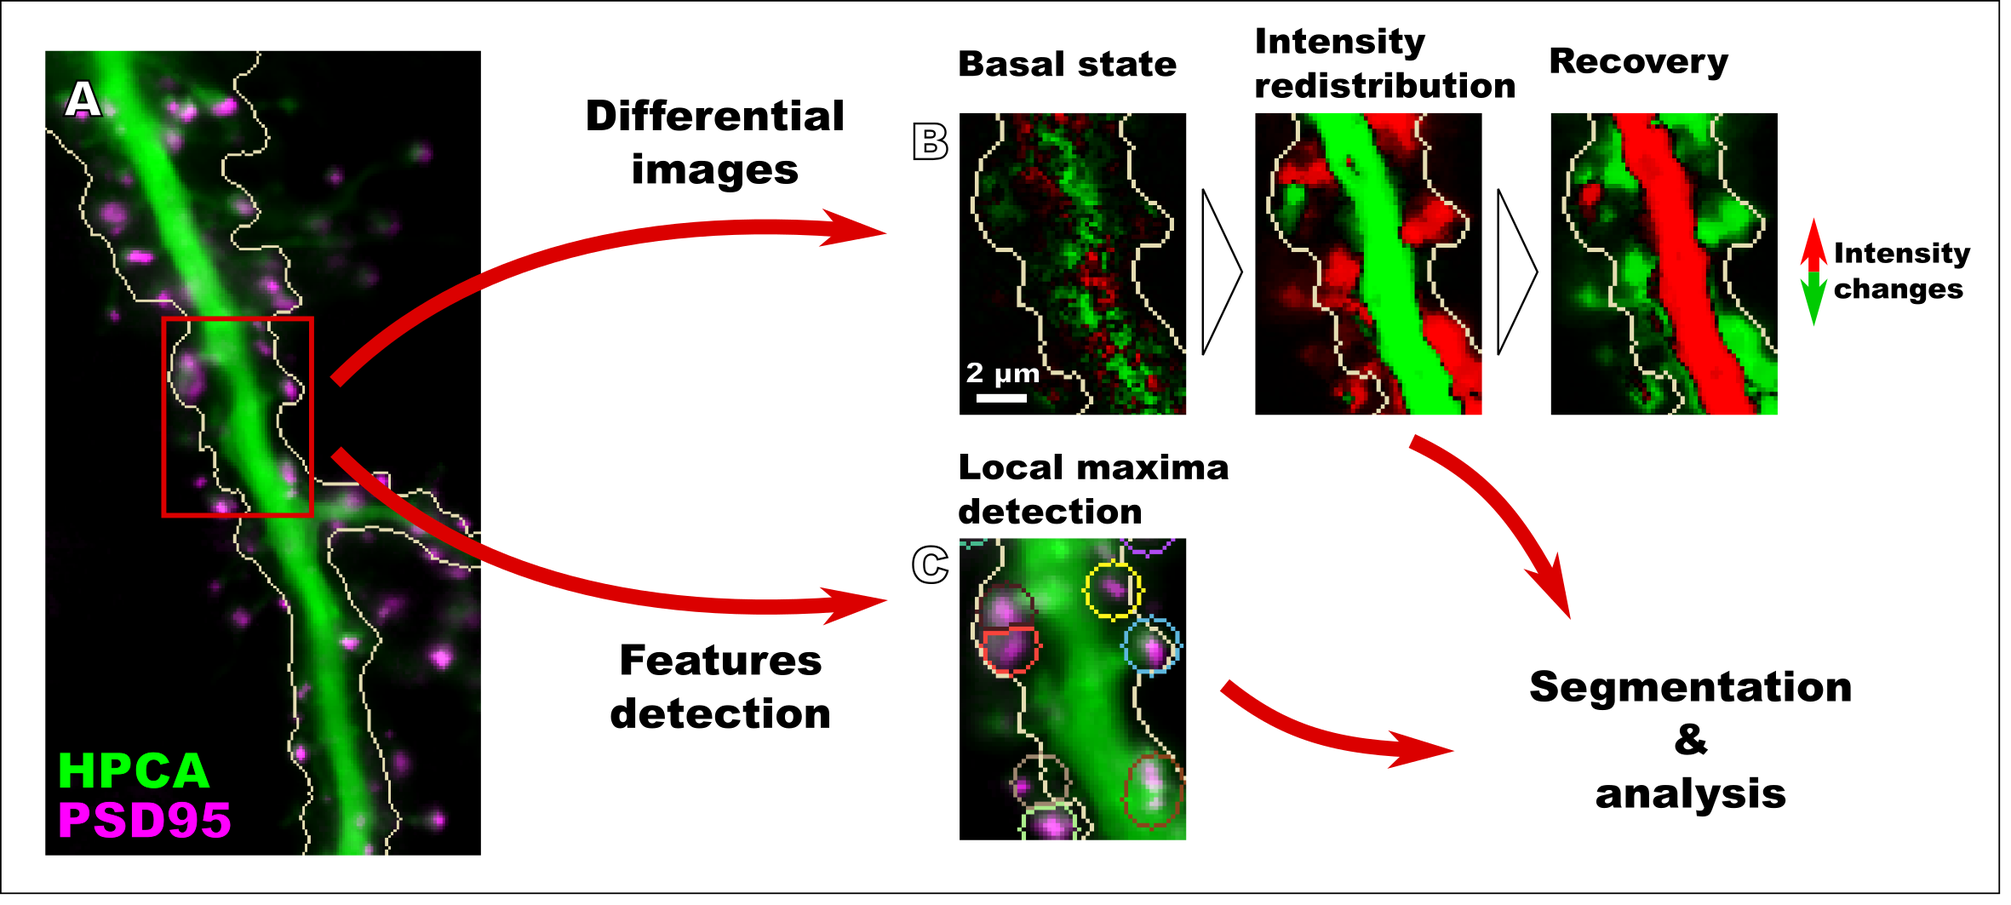
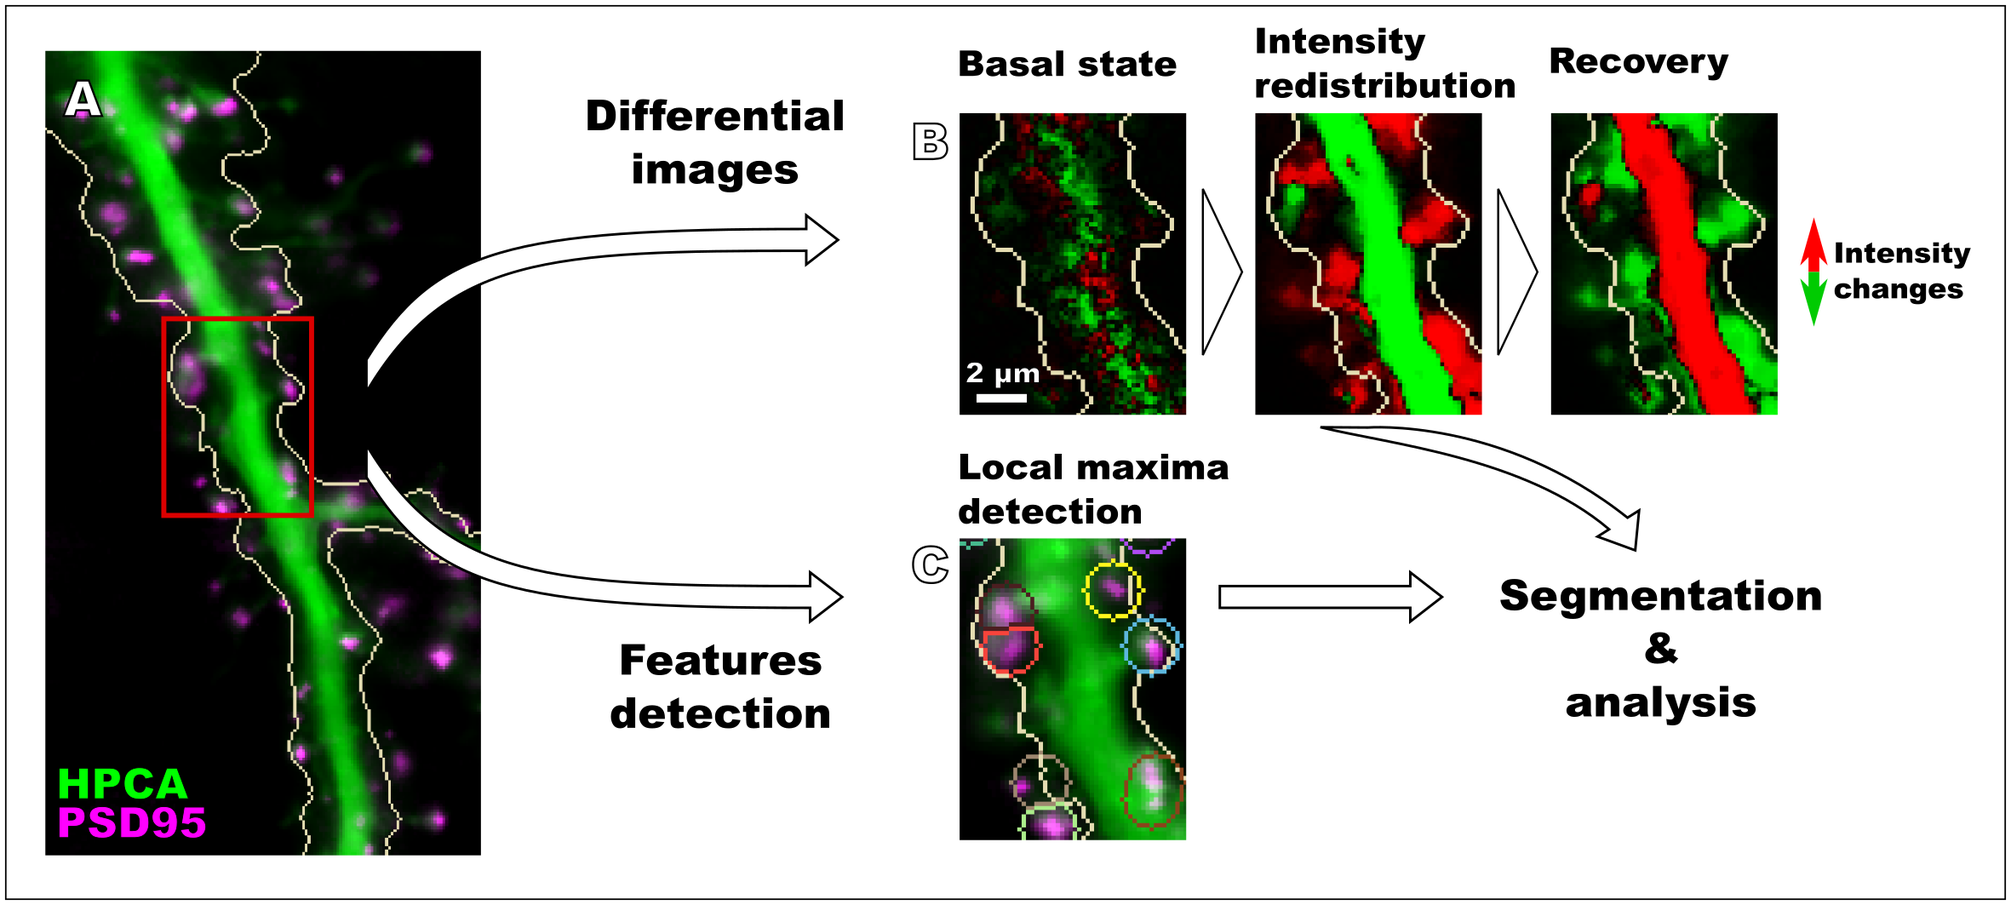
JOSS draft v2

diff --git a/paper/paper.md b/paper/paper.md
@@ -33,40 +33,45 @@ bibliography: paper.bib
 
 # Summary
 
-In today's high-throughput-focused research environment, simple and reliable exploratory analysis of experimental data remains important. We have developed a toolset for the rapid analysis of live-cell fluorescence imaging data, with a specific focus on visualising and detecting dynamic intracellular processes. This toolset's core functionality includes two main areas. First, it offers simple tools for detecting fluorescence redistribution using derivative images to visualise and quantify the fluorescence intensity changes over time series. Second, it includes an end-to-end pipeline for Förster Resonance Energy Transfer (FRET) experiments, providing a set of functions for calibration and estimation using two well-defined ratiometric methods. Combined with basic functions for segmentation, plotting, and data export, this provides a complete working environment for analysing live-cell imaging experiments. The implemented methods are simple and robust, making them broadly applicable across various biological domains, including neuroscience, biophysics, and cytology. The main tool, `domb-napari`, is developed as a plugin for napari, an open-source multidimensional image viewer, ensuring accessibility for biologists without coding expertise. Additionally, the functions specifically for FRET calibration and estimation are available as a standalone Python module, which can be used separately for greater flexibility.
+In today's high-throughput-focused research environment, simple and reliable exploratory analysis of experimental data remains important. We have developed a toolset for the rapid analysis of live-cell fluorescence imaging data, with a specific focus on visualising and detecting dynamic intracellular processes. This toolset's core functionality includes two main areas. First, it offers simple tools for detecting fluorescence intensity redistribution using derivative images to visualise and quantify the fluorescence intensity changes over time series. Second, it includes an end-to-end pipeline for Förster Resonance Energy Transfer (FRET) experiments, providing a set of functions for calibration and estimation using two well-defined ratiometric methods. Combined with basic functions for segmentation, plotting, and data export, this provides a complete working environment for analysing results of live-cell imaging experiments. The implemented methods are simple and robust, making them broadly applicable across various biological fields. The `domb-napari` is developed as a plugin for napari, an open-source multidimensional image viewer, ensuring accessibility for biologists without coding skills. Additionally, the functions specifically developed for FRET calibration and estimation are available as a standalone Python module to secure better flexibility of the toolset.
 
 
 # Statement of need
 
-Napari, the open-source multidimensional viewer, has very limited built-in functionality and is developed through community-created plugins [@Chiu2022]. However, there is a very limited set of plugins for basic analysis of live-imaging data, which are often poorly documented [@Haase2021; @Nauroth2023; @Soltwedel2024; @Gradel2025]. Our main aim was to bridge the gap between highly specialised solutions and just a set of basic functions (filtering, morphology operations, plotting, etc.), create a general-purpose toolset for fast analysis of fluorescence live-cell imaging data, from the primary detection of regions of interest up to plotting and exporting data in a tidy format. The core functionality of our plugin relies on a straightforward pixel-wise derivative approach, allowing rapid inspection and detection of changes or redistribution in fluorescence intensity. This method is broadly applicable across various experimental designs. Possible areas of application include:
+Napari is an open-source, multidimensional viewer whose functionality is expanded through community-created plugins [@Chiu2022]. Our main aim was to bridge the gap between highly specialised solutions and just a set of basic functions (filtering, morphology operations, plotting, etc.), create a general-purpose toolset for fast analysis of fluorescence live-cell imaging data, from the primary detection of regions of interest up to plotting and exporting data in a tidy format. The core functionality of our toolset relies on a straightforward pixel-wise derivative approach, allowing rapid inspection and detection of changes or redistribution in fluorescence intensity. This method is broadly applicable across various experimental designs. Possible areas of application include:
 
 - __Fluorescence probe signal detection:__ Calcium imaging, voltage-sensing probes imaging, pH-sensing probes imaging, etc. [@Taylor2011; @Reese2015].
 - __Tracking and redistribution detection:__ Detection of membrane protein complexes, intracellular trafficking detection, endocytosis and exocytosis events detection [@McVicker2016; @Scheefhals2019; @Mendoza2024].
 
-This primary feature is integrated with additional functionality for detecting and estimating Förster resonance energy transfer (FRET). FRET is a non-radiative phenomenon in which energy is transferred from one fluorophore (donor) to another (acceptor) over a distance of 1–10 nm. This energy transfer can be interpreted as a protein–protein interaction (if the fluorophores are attached to different proteins) or as a conformational change (if the fluorophores are on different parts of the same protein). This makes FRET a valuable tool for studying molecular processes in living cells without requiring super-resolution microscopy. There are many methods for FRET quantification. Some frequently used approaches belong to bulk measurement techniques such as ratiometric FRET, fluorescence lifetime imaging FRET, and photobleaching FRET. Ratiometric FRET, or intensity-based FRET estimation, is a widely used and accessible technique. It primarily relies on measuring the sensitised emission ($F_{c}$), which is the acceptor's fluorescence resulting from energy transfer from the donor [@Shrestha2015]. Despite this, ratiometric FRET lacks open-source, user-friendly tools for automated data processing and visualisation. Existing pipelines often rely on MATLAB [@Nagy2016; @Muller2025], which is extensible but proprietary software, or ImageJ [@Feige2005; @Hachet2006; @Rebenku2023], which is open-source but Java-based software, making it difficult to modify or create analysis pipelines. Although ImageJ supports Python integration through Jython, this is limited to Python 2. Existing Python-based tools for FRET analysis, often distributed as packages or scripts [@Kamino2023], present a significant barrier to entry for experimental biologists. As of early 2026, only one solution for FRET analysis is currently available within the napari ecosystem [@Leblanc2025; @Dupont2025]. Rather than duplicating methodologies, our work focuses on implementing well-described and widely adopted FRET estimation techniques: E-FRET [@Zal2004; @Chen2006] and 3^3^-FRET [@Erickson2001; @Butz2016].
+This primary feature is integrated with additional functionality for detecting and estimating Förster resonance energy transfer (FRET), a non-radiative phenomenon in which energy is transferred from one fluorophore (donor) to another (acceptor) over a distance of 1–10 nm. This energy transfer can be interpreted as a protein–protein interaction (if the fluorophores are attached to different proteins) or as a conformational change (if the fluorophores are on different parts of the same protein). This makes FRET a valuable tool for studying molecular processes in living cells without employing super-resolution microscopy. There are many methods for FRET quantification, among which ratiometric FRET, or intensity-based FRET estimation, is a widely used and accessible technique. It primarily relies on measuring the sensitised emission ($F_{c}$), which is the acceptor's fluorescence resulting from energy transfer from the donor [@Shrestha2015]. Rather than reinventing methodologies, our work focuses on implementing well-described and widely adopted FRET estimation techniques: E-FRET [@Zal2004; @Chen2006] and 3^3^-FRET [@Erickson2001; @Butz2016].
+
+
+# State of the field
+
+Currently, over 500 plugins are available for napari; however, there is a notable lack of plugins for basic analysis of live-cell imaging data that would not be specific to a particular acquisition method or experimental design. Furthermore, these solutions are often poorly documented [@Haase2021; @Nauroth2023; @Soltwedel2024; @Gradel2025]. On the other hand, the ratiometric FRET approaches lack open-source, user-friendly tools for automated data processing and visualisation. Existing pipelines often rely on MATLAB [@Nagy2016; @Muller2025], which is extensible but proprietary software, or ImageJ [@Feige2005; @Hachet2006; @Rebenku2023], which is open-source but Java-based software, making it difficult to modify or create analysis pipelines. Although ImageJ supports Python integration through Jython, this is limited to Python 2. Existing Python-based tools for FRET analysis, often distributed as packages or scripts [@Kamino2023], present a significant barrier to entry for experimental biologists. And as of early 2026, only one solution for FRET analysis is currently available within the napari ecosystem [@Leblanc2025; @Dupont2025].
+
 
 # Software design
-## Fluorescence redistribution analysis toolset
+## Plugin functions overview
+The `domb-napari` plugin offers a full workflow for the analysis of spectral time-series imaging data. It allows researchers to benefit from interactive data analysis capabilities of the napari, while also enabling the export of results as tidy CSV data frames for further downstream analysis. Performance for fast, repetitive time-series analysis is enhanced by Numba's Just-In-Time (JIT) compilation for optimised array operations [@Lam2015]. The general toolset of the plugin, built upon the `dipy` [@Garyfallidis2014], `scipy`, and `scikit-image` libraries, includes:
 
-
-The key element of the `domb-napari` plugin is the "red-green" images ($I_{RG}$), which are named according to a lookup table in which red indicates positive changes and green represents negative changes. This image is a pixel-by-pixel difference between the averaged intensity of a right (later in time, $\bar{I}_{right}$) and a left (earlier in time, $\bar{I}_{left}$) time windows.
-
-Users can adjust the detection sensitivity to specific event kinetics by changing three parameters: the sizes of the averaging windows (frame intervals $[r_{0}:r]$ and $[l_{0}:l]$) and the frame shift ($s$) between the windows. Fast events are best detected using short, or single-frame, windows with no spacer, which effectively turns the estimation into a temporal derivative; a long shift and larger window sizes are suitable for detecting slow transient changes [^1]:
-
-[^1]: In this context, the terms "fast" and "slow" refer to the relationship between the speed of the biological process and the speed of data acquisition, rather than the actual speed of the process itself.
-
-$$I_{RG} = \bar{I}_{right} - \bar{I}_{left}  = \frac{1}{r - r_0}\sum_{t=r_0+s}^{r+s} I_{t} - \frac{1}{l - l_0}\sum_{t=l_0}^{l} I_{t}$$
-
-This approach has been previously implemented and successfully applied in our laboratory's research [@Dovgan2010; @Osypenko2019]. The plugin's additional functionality, which leverages the `scipy` and `scikit-image`libraries, includes:
-
-- __Data Preprocessing:__ Simple multichannel time-series preprocessing, including background correction and filtering.
+- __Data Preprocessing:__ Simple spectral time-series preprocessing, including background correction, filtering, and spectral channels registration.
 - __Feature Detection:__ Intensity-based segmentation and local maxima detection methods.
 - __Visualisation:__ Plotting widgets for generating intensity profiles of regions of interest (ROIs) across the time series.
 - __Data Export:__ Exporting ROI intensity values as tidy CSV data frames.
 
-By combining all these steps on multichannel data (Fig. 1A), the plugin enables simultaneous analysis of the dynamics of the target of interest using "red-green" images (Fig. 1B). This analysis can be performed in combination with features detected on optional reference channels (Fig. 1C). The resulting output may serve as the initial input for subsequent, more specialised analysis workflows. Furthermore, the use of Numba's Just-In-Time (JIT) compilation optimises array operations, leading to improved performance in fast, repetitive time-series analysis [@Lam2015].
 
-![Fig. 1. Rapid analysis of the fluorescence redistribution in the live-cell imaging data. Adapted from [@Olifirov2025]](fig1.png)
+## Fluorescence redistribution analysis toolset
+
+One of the key elements of the plugin is the "red-green" images ($I_{RG}$). It is named according to a lookup table in which red indicates positive and green indicates negative changes in the fluorescence. Thus, the "red-green" image represents a pixel-by-pixel visualisation of the difference between the intensity of a right (later in time, $\bar{I}_{right}$) and a left (earlier in time, $\bar{I}_{left}$) time windows. Users can adjust the detection sensitivity to specific event kinetics by changing three parameters: the number of frames averaged for the right and left windows (frame intervals $[r_{0}:r]$ and $[l_{0}:l]$) and the frame shift ($s$) between the windows. Fast events are best detected using short, or single-frame, with no spacer, which effectively turns the estimation into a temporal derivative; a long shift and a larger number of averaged frames  are suitable for detecting slow transient changes [^1]:
+
+[^1]: In this context, the terms "fast" and "slow" refer to the relationship between the rate of the biological process and the rate of data acquisition, rather than the actual rate of the process itself.
+
+$$I_{RG} = \bar{I}_{right} - \bar{I}_{left}  = \frac{1}{r - r_0}\sum_{t=r_0+s}^{r+s} I_{t} - \frac{1}{l - l_0}\sum_{t=l_0}^{l} I_{t}$$
+
+This approach has been previously implemented and successfully applied in our laboratory's research [@Dovgan2010; @Osypenko2019]. By combining all these steps on multichannel data (Fig. 1A), the plugin enables simultaneous analysis of the dynamics of the target of interest using "red-green" images (Fig. 1B). This analysis can be performed in combination with features detected in optional reference channels (Fig. 1C). The resulting output may serve as the initial input for subsequent, more specialised analysis workflows.
+
+![Fig. 1. Rapid analysis of the protein (HPCA) redistribution in the dendritic tree of cultured hippocampal neuron from/to postsynaptic densities labelled by PSD95 in the live-cell imaging data. Adapted from [@Olifirov2025]](fig1.png)
 
 
 ## Quantitative FRET analysis with `e_fret` module
@@ -75,7 +80,7 @@ The raw signal measured in the acceptor's channel under donor excitation ($I_{DA
 
 $$F_{c} = I_{DA} - a I_{AA} - d I_{DD}$$
 
-The `e_fret` module offers a set of methods for estimating coefficients, based on both donor-only and acceptor-only calibration samples imaging. Estimation of FRET using the absolute value of $F_{C}$ is strongly dependent on the specific imaging setup and FRET pair characteristics. To perform a comparison of results across different studies, various methods for estimating _relative_ FRET values have been developed. Our module offers two primary techniques:
+The `e_fret` module offers a set of methods for estimating coefficients, based on both donor-only and acceptor-only sample calibration imaging (Fig. 2A). Estimation of FRET using the absolute value of $F_{C}$ is strongly dependent on the specific imaging setup and FRET pair characteristics. To perform a comparison of results across different studies, various methods for estimating _relative_ FRET values have been developed. Our module offers two primary techniques:
 
 - __FRET efficiency__ ($E_{D}$) estimation: This is achieved using the E-FRET approach, which normalises the FRET signal to the total donor intensity ($I_{D}^{tot}$):
 
@@ -85,29 +90,31 @@ $$E_{D} = \frac{F_{c}}{I_{D}^{tot}} = \frac{F_c / G}{F_c / G + I_{DD}}$$
 
 $$E_{A} = \frac{F_{c}}{I_{A}^{tot}} = \frac{\Xi F_c}{aI_{AA}}$$
 
-Precise calculation of the $I_{D}^{tot}$ and $I_{A}^{tot}$ values from the spectral imaging data also requires estimation of method-dependent proportionality coefficient, the $G$ factor for $E_{D}$ estimation and excitation ratio $\Xi$ for $E_{A}$ estimation [^2].
+Precise calculation of the $I_{D}^{tot}$ and $I_{A}^{tot}$ values from the spectral imaging data also requires estimation of method-dependent proportionality coefficient, the $G$ factor for $E_{D}$ (Fig. 2C) estimation and excitation ratio $\Xi$ for $E_{A}$ estimation [^2].
 
 [^2]: For detailed, extended definitions and calculation methods of coefficients, see the corresponding papers on E-FRET [@Zal2004; @Chen2006] and 3^3^-FRET [@Erickson2001; @Butz2016].
 
-Our package offers two methods for estimating the $G$ factor, both relying on imaging calibration samples. The original approach, developed by Zal & Gascoigne, is based on the relationship between sensitised emission depletion ($\Delta F_{c}$) and donor dequenching ($I_{DD}$) following acceptor photodestruction [@Zal2004]. This method uses calibration samples containing a linked donor-acceptor tandem construct. The initial image acquisition shows high FRET values (indicated by lower donor intensity). Subsequent acquisition of the same field of view, performed after partial acceptor bleaching, results in lower FRET values ($F_{c}^{post}$) and higher donor intensity ($I_{DD}^{post}$):
+The `e_fret` module offers two methods for estimating the $G$ factor, both of which rely on imaging calibration samples. The original approach, developed by Zal & Gascoigne, is based on the relationship between sensitised emission depletion ($\Delta F_{c}$) and donor dequenching ($I_{DD}$) following acceptor photodestruction [@Zal2004] (Fig. 2B). This method uses calibration samples containing a linked donor-acceptor tandem construct. The initial image acquisition shows high FRET values (indicated by lower donor intensity). Subsequent acquisition of the same field of view, performed after partial acceptor bleaching, results in lower FRET values ($F_{c}^{post}$) and higher donor intensity ($I_{DD}^{post}$):
 
-$$G = \frac{\Delta F_{c}}{\Delta I_{DD}} = \frac{F_{c} - F_{c}^{post}}{I_{DD}^{post} - I_{DD}}$$  
+$$G = \frac{\Delta F_{c}}{\Delta I_{DD}} = \frac{F_{c} - F_{c}^{post}}{I_{DD}^{post} - I_{DD}}$$
 
-Chen et al. proposed an alternative method for estimating the $G$ factor based on comparing FRET values from two calibration donor-acceptor tandems [@Chen2006]. These tandems are characterised by distinct distances between the FRET pair components, resulting in different FRET efficiencies. By relating the sample parameters—specifically the corrected FRET signals ($F_c$), donor intensities in the absence of acceptor ($I_{DD}$), and acceptor intensities in the absence of donor ($I_{AA}$) – for the tandem with higher ($F_{c}^{high}$, $I_{DD}^{high}$, and $I_{AA}^{high}$) and lower ($F_{c}^{low}$, $I_{DD}^{low}$, and $I_{AA}^{low}$) FRET values, it is possible to accurately estimate the $G$ factor for a specific FRET pair:
+![Fig. 2. Example of the FRET experiment design for $E_{D}$ estimation and corresponding classes of the `e_fret` module](fig2.png)
 
-$$G = \frac{F_{c}^{high} / I_{AA}^{high} - F_{c}^{low} / I_{AA}^{low}}{I_{DD}^{low} / I_{AA}^{low} - I_{DD}^{high} / I_{AA}^{high}}$$  
+Chen et al. proposed an alternative method for estimating the $G$ factor based on comparing FRET values from two calibration donor-acceptor tandems [@Chen2006]. These tandems are characterised by distinct distances between the FRET pair fluorophores, resulting in different FRET efficiencies. By relating the samples parameters for the tandem with higher ($F_{c}^{high}$, $I_{DD}^{high}$, and $I_{AA}^{high}$) and lower ($F_{c}^{low}$, $I_{DD}^{low}$, and $I_{AA}^{low}$) values, it is possible to accurately estimate the $G$ factor for a specific FRET pair:
 
-Module performance is optimised for pixel-wise operations using JIT compilation functions provided by Numba. For non-coding researchers, all the described functionality is conveniently accessible as a set of corresponding widgets within the `domb-napari` plugin. 
+$$G = \frac{F_{c}^{high} / I_{AA}^{high} - F_{c}^{low} / I_{AA}^{low}}{I_{DD}^{low} / I_{AA}^{low} - I_{DD}^{high} / I_{AA}^{high}}$$
+
+Module performance is optimised for pixel-wise operations using JIT compilation functions provided by Numba. For researchers without coding expertise, all the described functionality is conveniently accessible as a set of corresponding widgets within the `domb-napari` plugin.
 
 
 # Research impact statement
 
-The plugin is currently used in published research [@Olifirov2025] and has been successfully tested on mid-scale spectral imaging data acquired using widefield, laser scanning confocal, and spinning disk confocal microscopes. 
+The plugin is currently used in published research [@Olifirov2025] and has been successfully tested on unpublished mid-scale spectral imaging data acquired using widefield, laser scanning confocal, and spinning disk confocal microscopes.  
 
 
 # AI usage disclosure
 
-A generative AI model (Gemini 3 Pro) was used for developing several UI elements using QtPy, final code review, formatting and proofreading of the documentation and docstrings. A specialised AI model (DeepL) was used to proofread the main text. The authors declare that all code and text were manually inspected and verified by humans, and that they bear full responsibility for the content.
+A generative AI model (Gemini 3 Pro) was used for developing several UI elements using QtPy, final code review, formatting, and proofreading of the documentation and docstrings. A specialised AI model (DeepL) was used to proofread the main text. The authors declare that all code and text were manually inspected and verified by humans and that they bear full responsibility for the content.
 
 
 # Ethics statement
@@ -117,7 +124,7 @@ All animal experiments were approved by the host institution and conducted in co
 
 # Acknowledgements
 
-This work was funded by the long-term program of support of the Ukrainian research teams at the Polish Academy of Sciences, carried out in collaboration with the U.S. National Academy of Sciences, with the financial support of external partners (PAN.BFB.S.BWZ.405.022.2023), and the National Academy of Science of Ukraine grants (0124U001556, 0124U001557).
+This work was funded by the long-term program of support of the Ukrainian research teams at the Polish Academy of Sciences, carried out in collaboration with the U.S. National Academy of Sciences, with the financial support of external partners (PAN.BFB.S.BWZ.405.022.2023), and the National Academy of Science of Ukraine grants (0124U001556, 0124U001557, 0126U002342).
 
 
 # References
